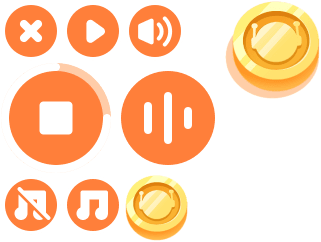
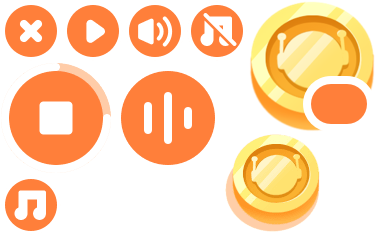
update

diff --git a/src/scenes/Game7/Play.ts b/src/scenes/Game7/Play.ts
@@ -11,6 +11,14 @@ export default class Game7PlayScene extends Phaser.Scene {
     private backToListBtn : Phaser.GameObjects.Image; //返回列表按钮
     private musicBtn : Phaser.GameObjects.Image; //背景音乐按钮
     private goldIcon : Phaser.GameObjects.Image; //金币数量
+    private goldText : Phaser.GameObjects.Text; //金币文本
+    private playBtn : Phaser.GameObjects.Image; //播放音频按钮
+    private recordStartBtn : Phaser.GameObjects.Image; //录音开始按钮
+    private playRecordBtn : Phaser.GameObjects.Image; //播放录音按钮
+    private bgmAnims : Phaser.Tweens.Tween; //背景音乐旋转动画
+    private bgmFlag : boolean = true ; //音乐开关
+    private bgm : Phaser.Sound.BaseSound ; //背景音乐
+    private wordsArr : string[] = ['a','b','c','d','e','f','g','h','i','j','k','l','m','n','o','p','q','r','s','t','u','v','w','x','y','z']; //基础单词随机组合数组
     constructor() {
       super({
         key: "Game7PlayScene"
@@ -28,28 +36,197 @@ export default class Game7PlayScene extends Phaser.Scene {
       this.createBgi(); //背景图
       this.createMachine(); //创建机器
       this.createBtn(); //创建按钮
+      this.createBgm(); //背景音乐
+      this.createMask(); //创建遮罩层
     }
 
+    private createMask () : void {
+      //创建开始游戏遮罩
+      let graphicsObj : Phaser.GameObjects.Graphics = this.add.graphics();
+      graphicsObj.fillStyle(0x000000,.5);
+      graphicsObj.fillRect(0,0,window.innerWidth,window.innerHeight).setDepth(1);
+      let mask : Phaser.GameObjects.Image = this.add.image(window.innerWidth / 2, window.innerHeight / 2 , 'mask').setDepth(100);
+      let zoneObj : Phaser.GameObjects.Zone = this.add.zone(window.innerWidth / 2 - 104.5,window.innerHeight / 2 + 138 ,209 , 53 ).setOrigin(0).setInteractive();
+      let that : Game7PlayScene = this;
+      zoneObj.on('pointerdown',function () {
+        //点击开始游戏注销组件
+        zoneObj.destroy();
+        graphicsObj.destroy();
+        mask.destroy();
+        that.initEmitHandle(); //初始化事件
+        that.handleAnims(); //初始化动画
+      });
+    }
+
+    private render (data : []) : void {
+      //渲染摇摇机
+      
+    }
+    
+
     private createBtn () : void {
+      //创建按钮
       this.backToListBtn = this.add.image(25 + (30 * scaleX), 25 + (30 * scaleY),'icons2','btn_exit.png')
         .setOrigin(.5)
         .setAlpha(.6)
-        .setDisplaySize(60,60)
+        .setDisplaySize(60 * scaleX,60 * scaleY)
         .setInteractive()
-        .setScale(scaleX,scaleY)
         .setData('isBtn',true);
       this.musicBtn = this.add.image(window.innerWidth - 30 - (30 * scaleX),25 + (30 * scaleY),'icons2','btn_play2.png')
         .setOrigin(.5)
         .setAlpha(.6)
-        .setDisplaySize(60,60)
+        .setDisplaySize(60 * scaleX,60 * scaleY)
         .setInteractive()
-        .setScale(scaleX,scaleY)
         .setData('isBtn',true);
       this.goldIcon = this.add.image(25 + (30 * scaleX),window.innerHeight - 25 - (30 * scaleY),'icons2','civa_gold.png')
         .setOrigin(.5)
-        .setDisplaySize(60,60)
-        .setScale(scaleX,scaleY)
+        .setDisplaySize(60 * scaleX,60 * scaleY)
         .setInteractive()
+      this.goldText = this.add.text(this.goldIcon.x + (13 * scaleX),this.goldIcon.y + (16 * scaleY),'99',{
+        font: 'Bold 14px Arial Rounded MT',
+        fill : '#fff',
+      }).setOrigin(.5);
+      this.playBtn = this.add.image(window.innerWidth / 2 - (55 * scaleX + 65 + (30 * scaleX)), window.innerHeight - 50 - (30 * scaleY) , 'icons2' , 'btn_last2.png')
+        .setDisplaySize(60 * scaleX , 60 * scaleY)
+        .setOrigin(.5)
+        .setAlpha(0);
+      this.recordStartBtn = this.add.image(window.innerWidth / 2, window.innerHeight - (55 * scaleY + 25) , 'icons2' , 'btn_luyin2.png')
+        .setDisplaySize(110 * scaleX , 110 * scaleY)
+        .setAlpha(0);
+      this.playRecordBtn = this.add.image(window.innerWidth / 2 + (55 * scaleX + 65 + (30 * scaleX)) , window.innerHeight - 50 - (30 * scaleY) , 'icons2' , 'btn_last.png')
+        .setDisplaySize(60 * scaleX , 60 * scaleY)
+        .setOrigin(.5)
+        .setAlpha(0);
+      this.bgmAnims = this.tweens.add({
+        targets : this.musicBtn,
+        duration : 2000,
+        repeat : -1,
+        angle : 360,
+      })
+    }
+
+    private handleClick () : void {
+      //点击摇杆
+      this.handle.play('begin');
+    }
+
+    private handleAnims () : void {
+      //摇杆切换frame
+      this.anims.create({
+        key : 'begin',
+        frames : this.anims.generateFrameNames('icons',{start : 0 , end : 3 , zeroPad: 0 , prefix : 'anims' , suffix : '.png' }),
+        frameRate : 12,
+        repeat : 0,
+        yoyo : true
+      })
+    }
+    
+    private initEmitHandle () : void {
+      //绑定事件
+      this.handle.on('pointerdown',this.handleClick.bind(this));
+      this.input.on('pointerdown',this.globalClickHandle.bind(this));
+      this.input.on('gameobjectover',this.gameOverHandle.bind(this));
+      this.input.on('gameobjectout',this.gameOutHandle.bind(this));
+      this.musicBtn.on('pointerdown',this.switchMusic.bind(this,this.bgmFlag));
+      this.backToListBtn.on('pointerdown',this.backToListHandle.bind(this));
+    }
+
+    private backToListHandle() : void {
+      //返回游戏列表
+      window.location.href = window.location.origin;
+    }
+
+    private switchMusic () : void {
+      //开起关闭背景音乐
+      this.bgmFlag = !this.bgmFlag;
+      this.bgmFlag && this.bgmAnims.resume() || this.bgmAnims.pause();
+      this.bgmFlag && this.bgm.resume() || this.bgm.pause();
+      this.bgmFlag && this.musicBtn.setFrame('btn_play2.png') || this.musicBtn.setFrame('btn_play.png');
+      !this.bgmFlag && (this.musicBtn.angle = 0); 
+      this.musicBtn.alpha = 1;
+      this.tweens.add({
+        targets : this.musicBtn,
+        delay : 3000,
+        alpha : .6,
+        ease: 'Sine.easeInOut',
+        duration : 500
+      })
+    }
+
+    private globalClickHandle (...args) : void {
+      //点击按钮缩放
+      let obj : object = args[1][0];
+      //@ts-ignore
+      // if(!obj || !obj.getData('playVideo')){
+      //   this.clearVideoFrameHandle();  //隐藏视频
+      // }
+      if(!obj) return;
+      //@ts-ignore
+      let isBtn : boolean = obj.getData('isBtn');
+      if(!isBtn) return;
+      this.playMusic('clickMp3');
+      this.tweens.add({
+        targets : obj,
+        scaleX : 1.2,
+        scaleY : 1.2,
+        alpha : 1,
+        duration : 200,
+        ease : 'Sine.easeInOut',
+        onComplete : ()=>{
+          this.tweens.add({
+            targets : obj,
+            scaleX : 1,
+            scaleY : 1,
+            duration : 200,
+            ease : 'Sine.easeInOut',
+          })
+        }
+      })
+
+    }
+
+    private playMusic (sourceKey : string) : void {
+      //播放音频
+      let mp3 : Phaser.Sound.BaseSound = this.sound.add(sourceKey);
+      mp3.play();
+    }
+
+    private gameOverHandle(...args) : void {
+      let obj : object = args[1];
+      if(!obj) return;
+      //@ts-ignore
+      let isBtn : boolean = obj.getData('isBtn');
+      if(!isBtn) return;
+      //@ts-ignore
+      obj.alpha = 1;
+      this.tweens.add({
+        targets : obj,
+        scaleX : 1.2,
+        scaleY : 1.2,
+        duration : 200,
+        ease : 'Sine.easeInOut',
+        onComplete : ()=>{
+          this.tweens.add({
+            targets : obj,
+            scaleX : 1,
+            scaleY : 1,
+            duration : 200,
+            ease : 'Sine.easeInOut',
+          })
+        }
+      })
+    }
+
+    private gameOutHandle (...args) : void {
+      let obj : object = args[1];
+      if(!obj) return;
+      //@ts-ignore
+      let isBtn : boolean = obj.getData('isBtn');
+      //@ts-ignore
+      let _s : boolean = obj.getData('_s');
+      if(!isBtn || _s) return;
+      //@ts-ignore
+      obj.alpha = .6;
     }
 
     private createBgi () : void {
@@ -59,13 +236,23 @@ export default class Game7PlayScene extends Phaser.Scene {
 
     private createMachine () : void {
       //创建机器
-      this.machine = this.add.image(window.innerWidth / 2 , 0 , 'machine').setOrigin(.5,0).setDisplaySize(794,513).setScale(scaleX,scaleY);
+      this.machine = this.add.image(window.innerWidth / 2 , 0 , 'machine').setOrigin(.5,0).setDisplaySize(794 * scaleX,513 * scaleY);
       this.handle = this.add.sprite(
         this.machine.x + (this.machine.width * scaleX / 2) - (window.innerWidth * 0.08) , 
         this.machine.y + (this.machine.height * scaleY / 2 ),
         'icons',
         'anims1.png'
-      ).setDisplaySize(123,336).setScale(scaleX,scaleY);
+      ).setDisplaySize(123 * scaleX,336 * scaleY)
+        .setInteractive();
+    }
+
+    private createBgm () : void{
+      this.bgm = this.sound.add('bgm');
+      //@ts-ignore
+      this.bgm.play({
+        loop : true,
+        volume : .3
+      })
     }
 
     update(time: number , delta : number): void {

diff --git a/src/scenes/Game7/Load.ts b/src/scenes/Game7/Load.ts
@@ -31,8 +31,12 @@ export default class Game7LoadScene extends Phaser.Scene {
   preload(): void {
     this.load.image('game7Bgi','assets/Game7/bgi.png');
     this.load.image('machine','assets/Game7/machine.png');
+    this.load.image('mask','assets/Game7/mask.png');
+    this.load.audio('bgm','assets/Game5/bgm.mp3');
     this.load.multiatlas('icons','assets/Game7/imgsJson.json','assets/Game7');
     this.load.multiatlas('icons2','assets/Game7/imgsJson2.json','assets/Game7');
+    this.load.audio('bgm','assets/Game5/bgm.mp3');
+    this.load.audio('clickMp3','assets/Game5/click.mp3');
     this.load.on('complete',()=>{
       //资源加载完成的回调
       this.imgLoadDone = true;
